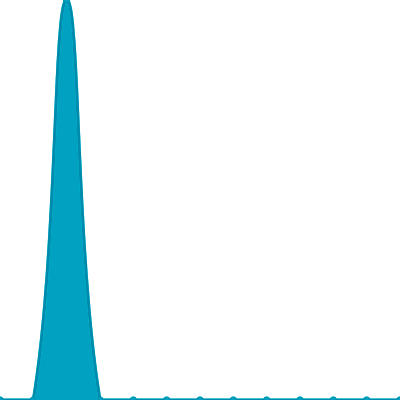
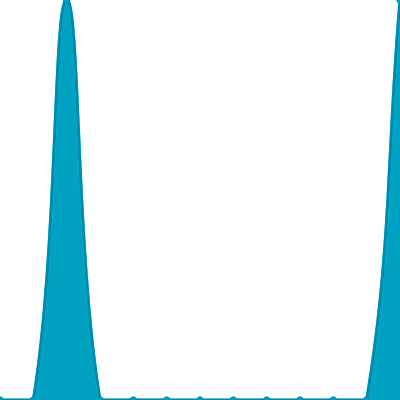
Update views

Changed region(s): [[0.9, 0.0, 1.0, 1.0]]

diff --git a/readme/300973530/year.md b/readme/300973530/year.md
@@ -23,10 +23,10 @@
 			<code>2023/8/1</code>
 		</td>
 		<td>
-			<code>0</code>
+			<code>1</code>
 		</td>
 		<td>
-			<code>0</code>
+			<code>1</code>
 		</td>
 	</tr>
 	<tr>
@@ -164,7 +164,7 @@
 </table>
 
 </details>
-<small><i>Last updated on 2023/8/20 12:21 PM UTC</i></small>
+<small><i>Last updated on 2023/8/20 6:14 PM UTC</i></small>
 
 ## ✂Copy and 📋 Paste
 ### SVG Badge

diff --git a/README.md b/README.md
@@ -53,7 +53,7 @@ The project created and maintained by [gayanvoice](https://github.com/gayanvoice
 	</tr>
 </table>
 
-<small><i>Last updated on 2023/8/20 12:22 PM UTC</i></small>
+<small><i>Last updated on 2023/8/20 6:14 PM UTC</i></small>
 
 ## ✂Copy and 📋 Paste
 ### Total Views Badge

diff --git a/readme/384794626/year.md b/readme/384794626/year.md
@@ -164,7 +164,7 @@
 </table>
 
 </details>
-<small><i>Last updated on 2023/8/20 12:21 PM UTC</i></small>
+<small><i>Last updated on 2023/8/20 6:14 PM UTC</i></small>
 
 ## ✂Copy and 📋 Paste
 ### SVG Badge
